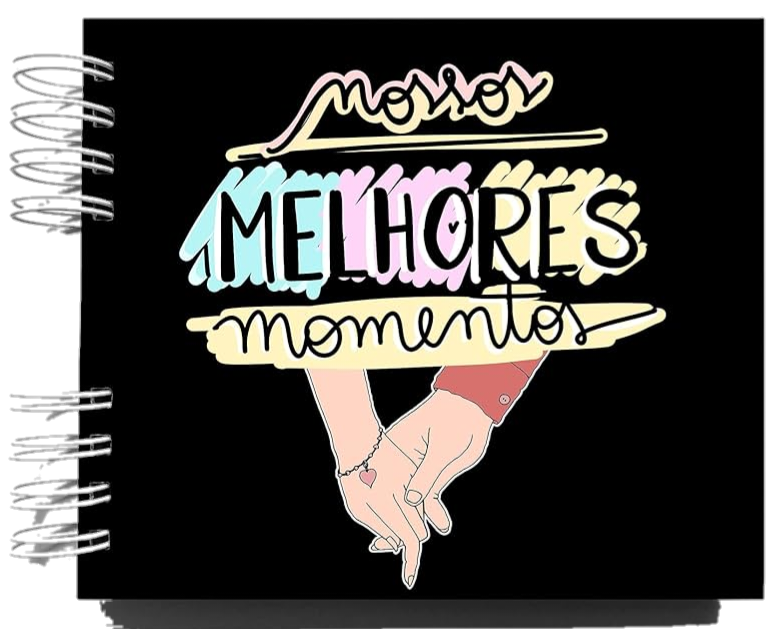
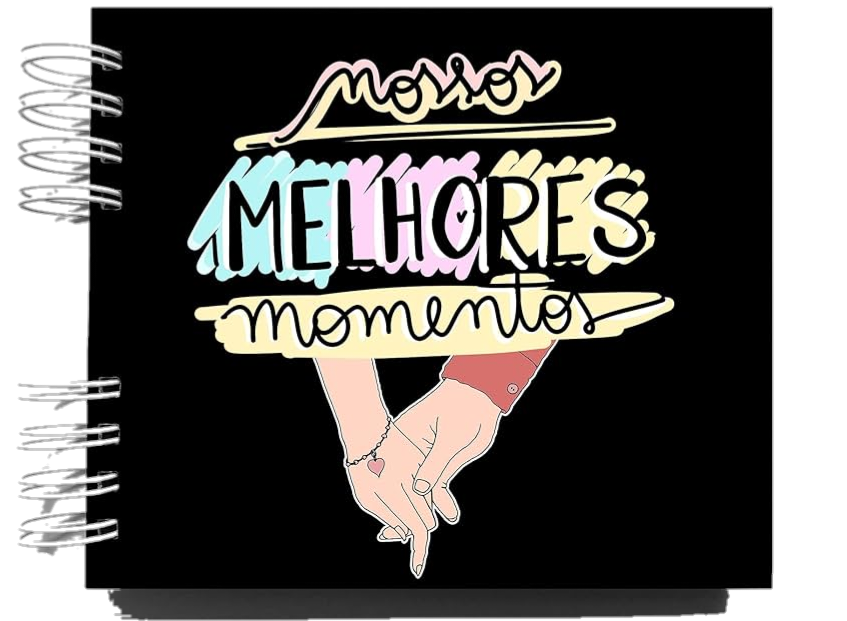
up

diff --git a/css/inicio.css b/css/inicio.css
@@ -190,5 +190,5 @@ body{
     background-image: url(../img/momentos.png);
     background-position: top center;
     background-repeat: no-repeat;
-    background-size: cover;
+    background-size: contain;
 }
